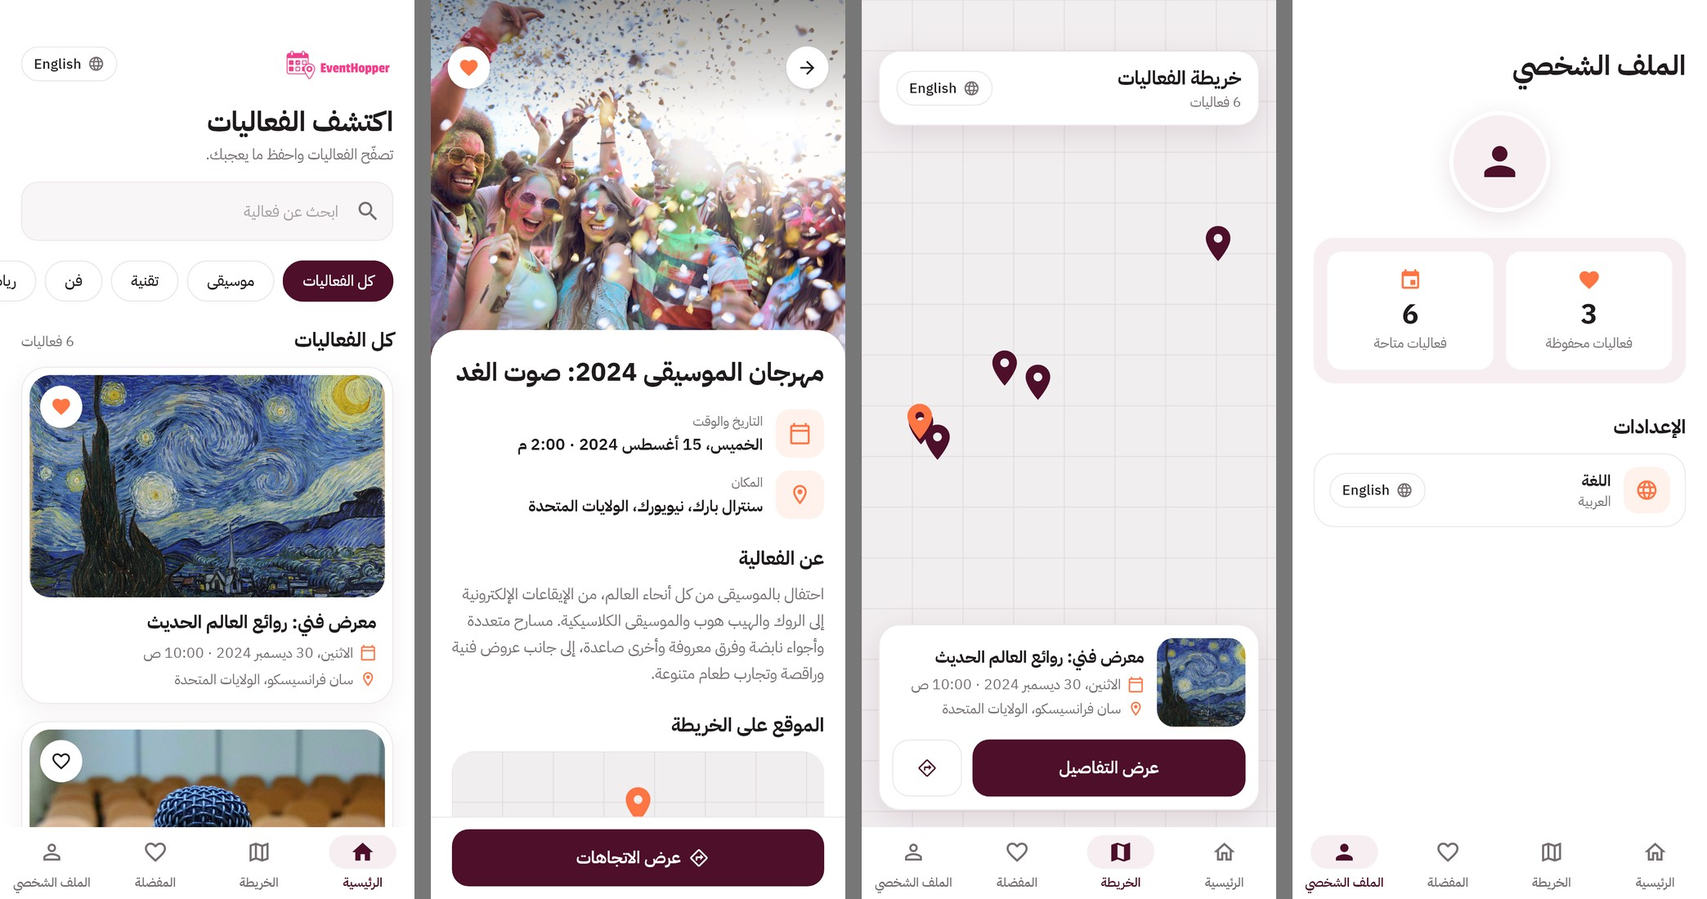
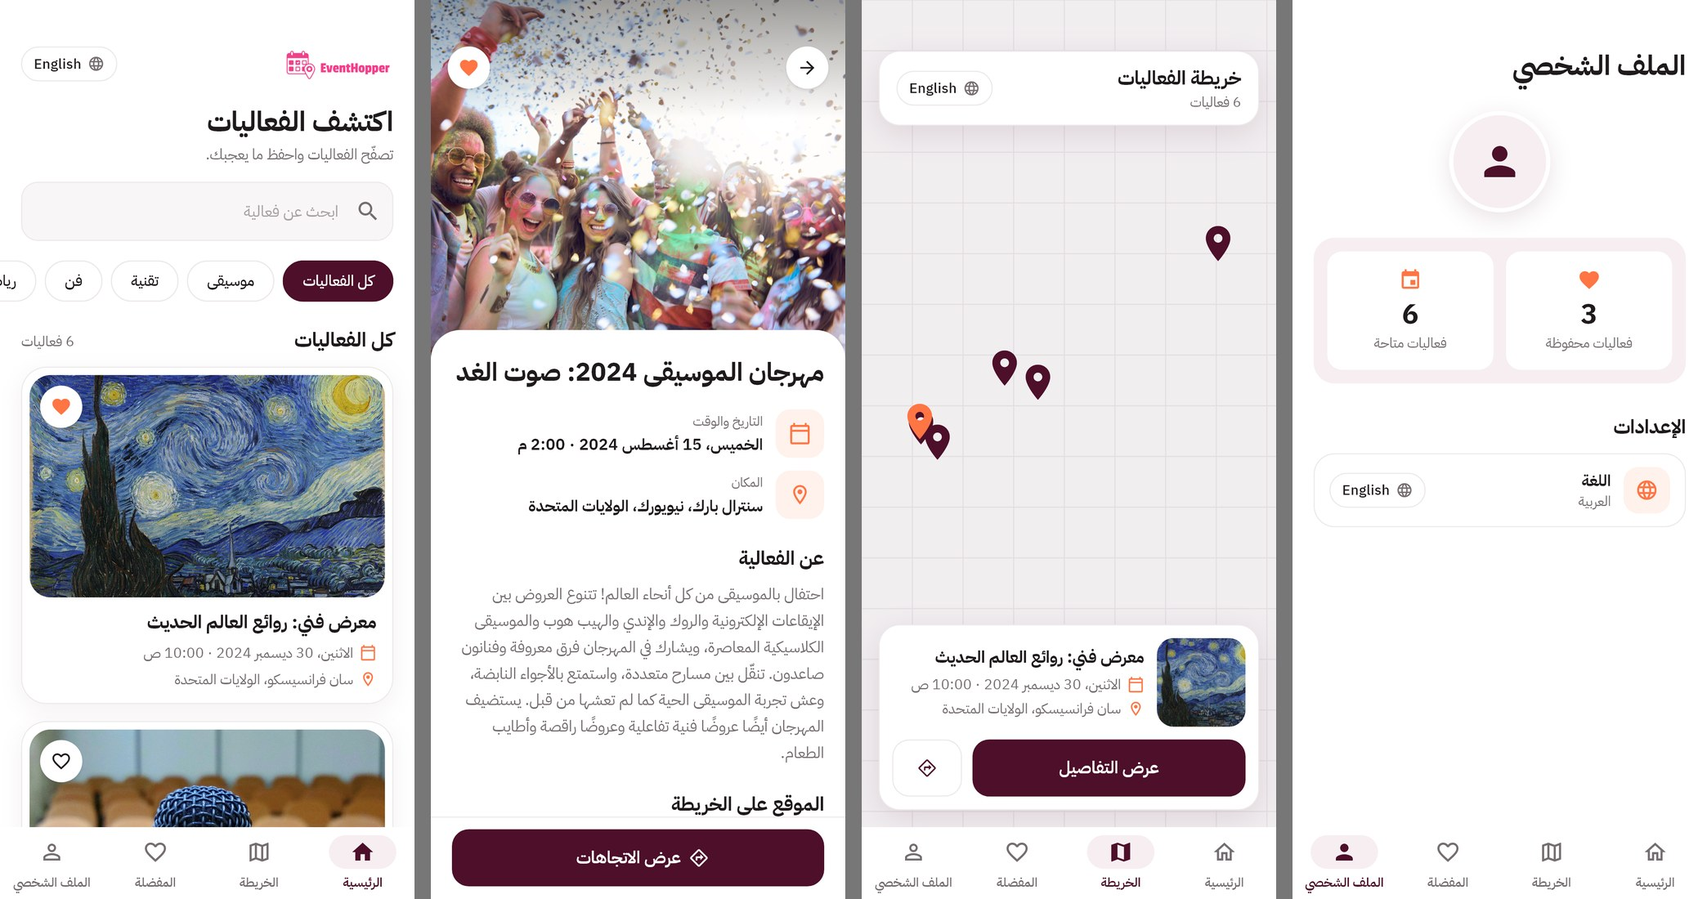
Show the demo events in Arabic when the interface is Arabic
- Add Arabic text for the six seeded events (lib/models/event_text.dart);
  events stay stored in English, so favorites and categories are unchanged
- Cards, details, the map card and places read the text for the app language
- Search matches the Arabic or the English title
- The golden test now renders the app's own events in both languages;
  refresh the Arabic README sheet

Changed region(s): [[0.249, 0.6491, 0.4981, 0.8345], [0.3424, 0.8655, 0.467, 0.9273]]

diff --git a/lib/models/event_text.dart b/lib/models/event_text.dart
@@ -1,0 +1,86 @@
+import 'package:easy_localization/easy_localization.dart';
+import 'package:flutter/widgets.dart';
+
+import 'event_model.dart';
+
+/// The text of an event in one language.
+class EventText {
+  final String title;
+  final String location;
+  final String about;
+  final String city;
+  final String country;
+
+  const EventText({
+    required this.title,
+    required this.location,
+    required this.about,
+    required this.city,
+    required this.country,
+  });
+}
+
+// Arabic text of the demo events (HiveService.addMockData), keyed by the English title.
+// Events are stored once, in English; the Arabic interface shows this text instead.
+const Map<String, EventText> _arabicEvents = {
+  'Art Exhibition: "Masterpieces of the Modern World"': EventText(
+    title: 'معرض فني: روائع العالم الحديث',
+    location: 'معرض الفن الحديث، سان فرانسيسكو، الولايات المتحدة',
+    about: 'استمتع بمجموعة مختارة من أرقى أعمال الفن المعاصر. يجمع هذا المعرض فنانين مجدّدين يرسمون ملامح مستقبل الثقافة البصرية. ستجد أعمالًا تركيبية تفاعلية، ومنحوتات تثير التفكير، ولوحات تتحدى الأفكار المألوفة. لكل عمل حكايته الخاصة، بين المدرسة التجريدية والمدرسة الواقعية.',
+    city: 'سان فرانسيسكو',
+    country: 'الولايات المتحدة',
+  ),
+  'Tech Conference 2024: "Innovation in AI and Beyond"': EventText(
+    title: 'مؤتمر التقنية 2024: الابتكار في الذكاء الاصطناعي وما بعده',
+    location: 'مركز مؤتمرات وادي السيليكون، سان خوسيه، الولايات المتحدة',
+    about: 'انضم إلى هواة التقنية ورواد الأعمال وقادة الصناعة وهم يناقشون أحدث التطورات في الذكاء الاصطناعي وتعلّم الآلة وعلوم البيانات. يقدّم المؤتمر كلمات رئيسية لمتحدثين من كبرى الشركات، وورش عمل وجلسات حوارية. سواء كنت مبتدئًا أو خبيرًا، ستجد جلسات متعمقة في موضوعات مثل الحوسبة الكمّية والمركبات ذاتية القيادة وأخلاقيات الذكاء الاصطناعي.',
+    city: 'سان خوسيه',
+    country: 'الولايات المتحدة',
+  ),
+  'Drinks & Cocktail Festival 2024': EventText(
+    title: 'مهرجان المشروبات والكوكتيلات 2024',
+    location: 'القاعة الكبرى، شيكاغو، الولايات المتحدة',
+    about: 'فعالية لا تفوَّت لعشاق الكوكتيلات ومحترفي تحضيرها وهواتها! تذوّق كوكتيلات حصرية يعدّها خبراء مشهورون عالميًا. شارك في ورش عن فن تحضير المشروبات، وتعرّف على أسرار المشروبات الكلاسيكية والحديثة، واكتشف أحدث اتجاهات صناعة المشروبات الروحية. يضم المهرجان أيضًا مصانع جعة حرفية محلية، وأركانًا لتذوّق النبيذ، وتشكيلة من المشروبات الخالية من الكحول للجميع.',
+    city: 'شيكاغو',
+    country: 'الولايات المتحدة',
+  ),
+  'Music Festival 2024: "The Sound of Tomorrow"': EventText(
+    title: 'مهرجان الموسيقى 2024: صوت الغد',
+    location: 'سنترال بارك، نيويورك، الولايات المتحدة',
+    about: 'احتفال بالموسيقى من كل أنحاء العالم! تتنوع العروض بين الإيقاعات الإلكترونية والروك والإندي والهيب هوب والموسيقى الكلاسيكية المعاصرة، ويشارك في المهرجان فرق معروفة وفنانون صاعدون. تنقّل بين مسارح متعددة، واستمتع بالأجواء النابضة، وعش تجربة الموسيقى الحية كما لم تعشها من قبل. يستضيف المهرجان أيضًا عروضًا فنية تفاعلية وعروضًا راقصة وأطايب الطعام.',
+    city: 'نيويورك',
+    country: 'الولايات المتحدة',
+  ),
+  'International Sports Championship 2024': EventText(
+    title: 'البطولة الرياضية الدولية 2024',
+    location: 'الملعب الأولمبي، لندن، المملكة المتحدة',
+    about: 'شاهد نخبة من أفضل رياضيي العالم يتنافسون في سلسلة من المنافسات المثيرة، منها ألعاب القوى والسباحة والجمباز والألعاب الجماعية. هذه البطولة حدث عالمي مرموق يجمع رياضيين من أنحاء العالم لاستعراض مهاراتهم وتحطيم الأرقام القياسية. استمتع بعروض رياضية متنوعة ومناطق للمشجعين وفرصة للقاء نجومك الرياضيين المفضلين.',
+    city: 'لندن',
+    country: 'المملكة المتحدة',
+  ),
+  'Technology Expo 2024: "The Future of Tech and Sustainability"': EventText(
+    title: 'معرض التقنية 2024: مستقبل التقنية والاستدامة',
+    location: 'مركز مؤتمرات لاس فيغاس، لاس فيغاس، الولايات المتحدة',
+    about: 'اكتشف أحدث الابتكارات التقنية مع تركيز على الاستدامة. يجمع المعرض شركات ناشئة رائدة وشركات كبرى لعرض منتجات وحلول تُحدث فرقًا في كفاءة الطاقة والتقنيات المتجددة والمباني الخضراء والاستدامة المدعومة بالذكاء الاصطناعي. يمكن للحضور تجربة عروض حية، وحضور نقاشات عن مستقبل التقنية في حياتنا اليومية، والتواصل مع قادة الفكر في المجال.',
+    city: 'لاس فيغاس',
+    country: 'الولايات المتحدة',
+  ),
+};
+
+extension LocalizedEvent on EventModel {
+  /// Arabic text of the event, if it has a translation.
+  EventText? get arabicText => _arabicEvents[title];
+
+  /// The event's text in the app language. An event without a translation keeps its stored text.
+  EventText text(BuildContext context) {
+    final arabic = context.locale.languageCode == 'ar' ? arabicText : null;
+    return arabic ??
+        EventText(
+          title: title,
+          location: location,
+          about: about,
+          city: city,
+          country: country,
+        );
+  }
+}

diff --git a/tool/screens_golden_test.dart b/tool/screens_golden_test.dart
@@ -1,4 +1,4 @@
-// Renders the redesigned screens off-screen with sample data, in Arabic and English.
+// Renders the redesigned screens off-screen with the app's own demo events, in Arabic and English.
 // Run: flutter test --update-goldens tool/screens_golden_test.dart  (PNGs land in tool/shots/)
 import 'dart:io';
 import 'dart:math' as math;
@@ -23,68 +23,6 @@ import 'package:logger/logger.dart';
 import 'package:path_provider_platform_interface/path_provider_platform_interface.dart';
 import 'package:provider/provider.dart';
 import 'package:shared_preferences/shared_preferences.dart';
-
-EventModel event(
-  String title,
-  String image,
-  DateTime dateTime,
-  String location,
-  String city,
-  String country,
-  LatLng position,
-  String about,
-) =>
-    EventModel(
-      title: title,
-      imagePath: 'assets/images/$image.jpg',
-      dateTime: dateTime,
-      location: location,
-      about: about,
-      city: city,
-      country: country,
-      googleMapsLocation: position,
-    );
-
-// The English run uses the demo events the app seeds itself (HiveService.addMockData).
-// These are the same six events in Arabic, stored before the app loads them.
-final arabicEvents = [
-  event(
-    'معرض فني: روائع العالم الحديث', 'art', DateTime(2024, 12, 30, 10, 0),
-    'معرض الفن الحديث، سان فرانسيسكو، الولايات المتحدة', 'سان فرانسيسكو', 'الولايات المتحدة',
-    const LatLng(37.7749, -122.4194),
-    'مجموعة مختارة من أفضل أعمال الفن المعاصر لفنانين يرسمون ملامح مستقبل الثقافة البصرية. يضم المعرض أعمالًا تفاعلية ومنحوتات ولوحات تتحدى الأفكار المألوفة، ولكل عمل حكايته بين التجريد والواقعية.',
-  ),
-  event(
-    'مؤتمر التقنية 2024: الابتكار في الذكاء الاصطناعي', 'conference', DateTime(2024, 11, 5, 9, 0),
-    'مركز مؤتمرات وادي السيليكون، سان خوسيه، الولايات المتحدة', 'سان خوسيه', 'الولايات المتحدة',
-    const LatLng(37.3382, -121.8863),
-    'يلتقي المهتمون بالتقنية ورواد الأعمال وقادة الصناعة لمناقشة أحدث التطورات في الذكاء الاصطناعي وتعلّم الآلة وعلوم البيانات، مع كلمات رئيسية وورش عمل وجلسات حوارية.',
-  ),
-  event(
-    'مهرجان المشروبات والكوكتيلات 2024', 'drinks', DateTime(2024, 9, 20, 17, 0),
-    'القاعة الكبرى، شيكاغو، الولايات المتحدة', 'شيكاغو', 'الولايات المتحدة',
-    const LatLng(41.8781, -87.6298),
-    'مهرجان لعشاق المشروبات يقدّم تشكيلات حصرية يعدّها خبراء من أنحاء العالم، مع ورش عن فن التحضير وأحدث اتجاهات الصناعة، وركن واسع للمشروبات الخالية من الكحول.',
-  ),
-  event(
-    'مهرجان الموسيقى 2024: صوت الغد', 'music', DateTime(2024, 8, 15, 14, 0),
-    'سنترال بارك، نيويورك، الولايات المتحدة', 'نيويورك', 'الولايات المتحدة',
-    const LatLng(40.7851, -73.9683),
-    'احتفال بالموسيقى من كل أنحاء العالم، من الإيقاعات الإلكترونية إلى الروك والهيب هوب والموسيقى الكلاسيكية. مسارح متعددة وأجواء نابضة وفرق معروفة وأخرى صاعدة، إلى جانب عروض فنية وراقصة وتجارب طعام متنوعة.',
-  ),
-  event(
-    'البطولة الرياضية الدولية 2024', 'sports', DateTime(2024, 6, 18, 10, 0),
-    'الملعب الأولمبي، لندن، المملكة المتحدة', 'لندن', 'المملكة المتحدة',
-    const LatLng(51.5074, -0.1278),
-    'نخبة من أفضل رياضيي العالم يتنافسون في ألعاب القوى والسباحة والجمباز والألعاب الجماعية، مع مناطق للمشجعين وعروض رياضية وفرصة للقاء النجوم.',
-  ),
-  event(
-    'معرض التقنية 2024: مستقبل التقنية والاستدامة', 'technology', DateTime(2024, 10, 25, 11, 0),
-    'مركز مؤتمرات لاس فيغاس، لاس فيغاس، الولايات المتحدة', 'لاس فيغاس', 'الولايات المتحدة',
-    const LatLng(36.1699, -115.1398),
-    'أحدث الابتكارات التقنية مع تركيز على الاستدامة: شركات ناشئة وكبرى تعرض حلولًا في كفاءة الطاقة والتقنيات المتجددة والمباني الخضراء، مع عروض حية وجلسات نقاش.',
-  ),
-];
 
 class FakePathProvider extends PathProviderPlatform {
   FakePathProvider(this.path);
@@ -223,10 +161,6 @@ void main() {
 
     await tester.runAsync(() async {
       await Hive.deleteFromDisk();
-      if (lang == 'ar') {
-        final box = await Hive.openBox<EventModel>('eventsBox');
-        await box.addAll(arabicEvents);
-      }
       await provider.getEvent();
       for (final index in favorites) {
         await provider.toggleFavorite(provider.events[index]);

diff --git a/lib/screens/event_details_screen.dart b/lib/screens/event_details_screen.dart
@@ -1,5 +1,6 @@
 import 'package:easy_localization/easy_localization.dart' hide TextDirection;
 import 'package:event_hopper/models/event_model.dart';
+import 'package:event_hopper/models/event_text.dart';
 import 'package:event_hopper/themes/app_theme.dart';
 import 'package:event_hopper/widgets/app_widgets.dart';
 import 'package:event_hopper/widgets/events_map.dart';
@@ -16,6 +17,7 @@ class EventDetailsScreen extends StatelessWidget {
     final deviceHeight = MediaQuery.of(context).size.height;
     final topInset = MediaQuery.of(context).padding.top;
     final heroHeight = deviceHeight * 0.40;
+    final text = event.text(context);
 
     return Scaffold(
       body: SingleChildScrollView(
@@ -52,7 +54,7 @@ class EventDetailsScreen extends StatelessWidget {
                   crossAxisAlignment: CrossAxisAlignment.stretch,
                   children: [
                     ContentText(
-                      event.title,
+                      text.title,
                       style: const TextStyle(
                         fontSize: 24,
                         height: 1.3,
@@ -70,14 +72,14 @@ class EventDetailsScreen extends StatelessWidget {
                     _InfoRow(
                       icon: Icons.location_on_outlined,
                       label: context.tr('details_location'),
-                      value: event.location,
+                      value: text.location,
                     ),
                     const SizedBox(height: 24),
                     _SectionTitle(context.tr('details_about')),
                     const SizedBox(height: 8),
                     Text(
-                      event.about,
-                      textDirection: Bidi.detectRtlDirectionality(event.about)
+                      text.about,
+                      textDirection: Bidi.detectRtlDirectionality(text.about)
                           ? TextDirection.rtl
                           : TextDirection.ltr,
                       style: const TextStyle(

diff --git a/lib/screens/home_screen.dart b/lib/screens/home_screen.dart
@@ -5,6 +5,7 @@ import 'package:get_it/get_it.dart';
 import 'package:provider/provider.dart';
 
 import '../models/event_model.dart';
+import '../models/event_text.dart';
 import '../services/navigation_services.dart';
 import '../themes/app_theme.dart';
 import '../widgets/app_widgets.dart';
@@ -71,10 +72,13 @@ class _HomeScreenState extends State<HomeScreen> {
 
   void _updateFilteredEvents() {
     final category = _categories[selectedCategory].$2;
+    final query = searchQuery.toLowerCase();
     setState(() {
       filteredEvents = allEvents.where((event) {
+        // Categories match the stored English title; search matches either language
         final title = event.title.toLowerCase();
-        return title.contains(searchQuery.toLowerCase()) &&
+        final arabicTitle = event.arabicText?.title ?? '';
+        return (title.contains(query) || arabicTitle.contains(query)) &&
             title.contains(category);
       }).toList();
     });

diff --git a/lib/screens/event_map_screen.dart b/lib/screens/event_map_screen.dart
@@ -1,5 +1,6 @@
 import 'package:easy_localization/easy_localization.dart' hide TextDirection;
 import 'package:event_hopper/models/event_model.dart';
+import 'package:event_hopper/models/event_text.dart';
 import 'package:event_hopper/providers/event_provider.dart';
 import 'package:event_hopper/services/navigation_services.dart';
 import 'package:event_hopper/themes/app_theme.dart';
@@ -122,7 +123,7 @@ class _SelectedEventCard extends StatelessWidget {
                   crossAxisAlignment: CrossAxisAlignment.stretch,
                   children: [
                     ContentText(
-                      event.title,
+                      event.text(context).title,
                       maxLines: 2,
                       style: const TextStyle(
                         fontSize: 15.5,

diff --git a/lib/widgets/app_widgets.dart b/lib/widgets/app_widgets.dart
@@ -1,5 +1,6 @@
 import 'package:easy_localization/easy_localization.dart' hide TextDirection;
 import 'package:event_hopper/models/event_model.dart';
+import 'package:event_hopper/models/event_text.dart';
 import 'package:event_hopper/providers/event_provider.dart';
 import 'package:event_hopper/themes/app_theme.dart';
 import 'package:flutter/material.dart';
@@ -352,5 +353,6 @@ String formatEventDateTime(BuildContext context, DateTime dateTime) {
 
 /// City and country of an event joined with the current language's comma.
 String formatEventPlace(BuildContext context, EventModel event) {
-  return context.tr('place_format', args: [event.city, event.country]);
+  final text = event.text(context);
+  return context.tr('place_format', args: [text.city, text.country]);
 }

diff --git a/lib/widgets/event_card_widget.dart b/lib/widgets/event_card_widget.dart
@@ -1,4 +1,5 @@
 import 'package:event_hopper/models/event_model.dart';
+import 'package:event_hopper/models/event_text.dart';
 import 'package:event_hopper/themes/app_theme.dart';
 import 'package:event_hopper/widgets/app_widgets.dart';
 import 'package:flutter/material.dart';
@@ -68,7 +69,7 @@ class EventCardWidget extends StatelessWidget {
                     crossAxisAlignment: CrossAxisAlignment.stretch,
                     children: [
                       ContentText(
-                        event.title,
+                        event.text(context).title,
                         maxLines: 2,
                         style: const TextStyle(
                           fontSize: 17,

diff --git a/README.md b/README.md
@@ -12,7 +12,7 @@ A responsive **Flutter** app for browsing events, viewing them on a map, and sav
 - 🌍 **Arabic (RTL) and English** (`easy_localization`) — Arabic by default, switchable from the main screens
 - 🖥 Desktop-aware — navigation rail instead of the bottom bar (the map itself runs on Android and iOS only)
 
-The events are six demo events seeded into Hive on first launch; there is no backend.
+The events are six demo events seeded into Hive on first launch; there is no backend. They are stored in English and shown in Arabic when the interface is Arabic (`lib/models/event_text.dart`).
 
 ## Screenshots
 
@@ -20,8 +20,8 @@ The events are six demo events seeded into Hive on first launch; there is no bac
 |---|---|
 | ![Arabic screens](docs/screenshots/arabic.jpg) | ![English screens](docs/screenshots/english.jpg) |
 
-Rendered from the real screens with sample data by `tool/screens_golden_test.dart`.
-The Google map cannot render off-screen, so the test draws a plain grid with the event pins in its place. The English sheet shows the demo events the app seeds; the Arabic sheet shows the same six events translated.
+Rendered from the real screens with the app's own demo events by `tool/screens_golden_test.dart`.
+The Google map cannot render off-screen, so the test draws a plain grid with the event pins in its place.
 
 ## Stack
 
